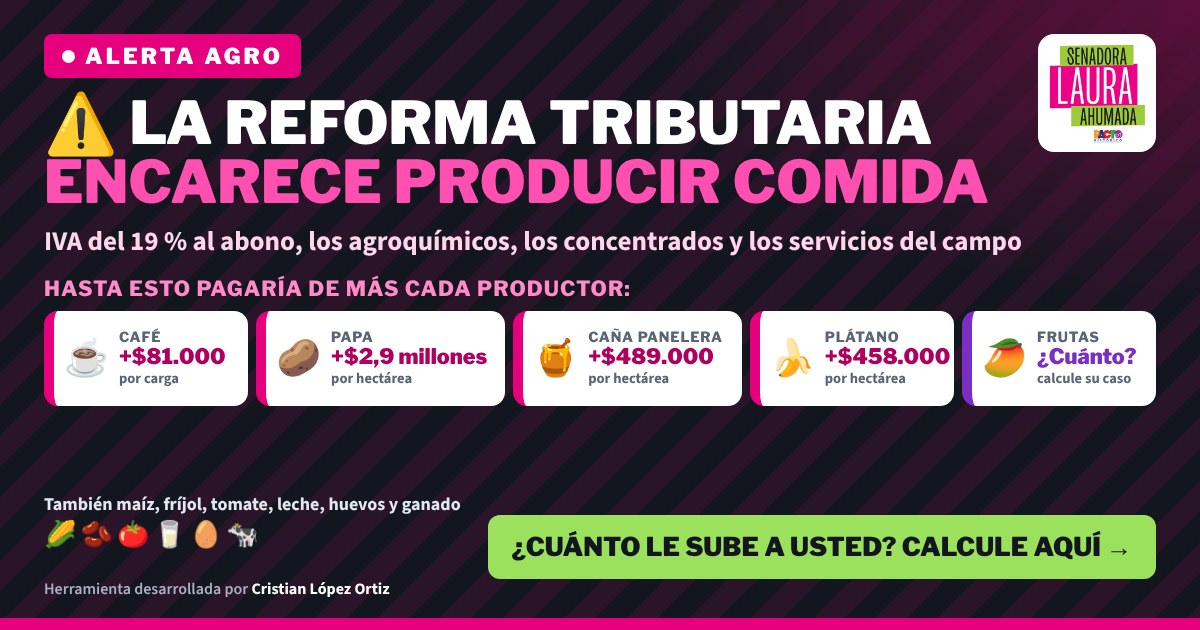
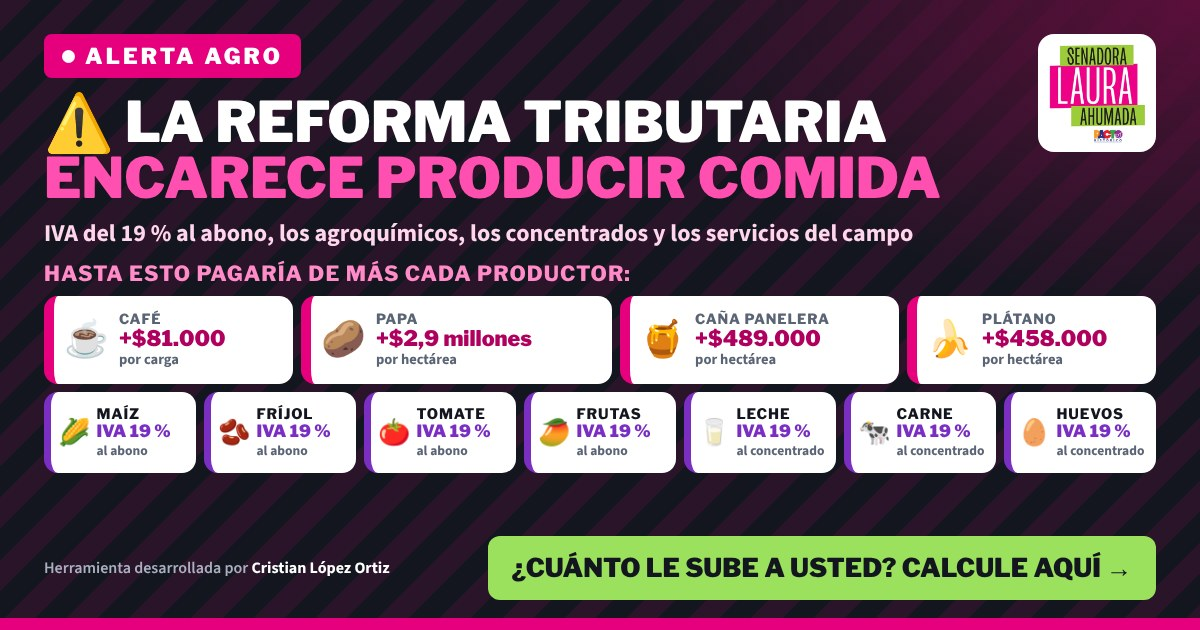
Add files via upload

diff --git a/index.html b/index.html
@@ -67,7 +67,7 @@ tr.tot td{background:#fdf0f7;font-weight:800;border-top:2px solid var(--f)}
 #pop .lead{font-size:16.5px;margin:0 0 10px}
 .pg{display:grid;grid-template-columns:repeat(auto-fill,minmax(205px,1fr));gap:8px}
 .pc{display:flex;gap:10px;align-items:center;text-align:left;border:1px solid var(--line);border-left:6px solid var(--f);border-radius:12px;padding:9px 10px;background:#fff;cursor:pointer;font-family:var(--body);color:var(--ink)}
-.pc:hover{background:#fdf0f7}.pc .ic{font-size:30px;line-height:1;width:46px;height:46px;border-radius:50%;background:#fdf0f7;display:grid;place-items:center;flex:0 0 auto}
+.pc:hover{background:#fdf0f7}.pc.q{border-left-color:#7a2fc2;padding:7px 9px}.pc.q .ic{font-size:24px;width:38px;height:38px;background:#f4ecfc}.pc.q strong{font-size:16.5px;color:#5b1fa0}.pc{min-width:0}.pc>span:last-child{min-width:0}.pg{grid-template-columns:repeat(4,1fr)}.pg .pc{padding:9px 8px;gap:8px}.pg .pc .ic{width:38px;height:38px;font-size:24px}.pg .pc strong{font-size:16.5px}.pg .pc.q strong{font-size:16px}@media(max-width:700px){.pg{grid-template-columns:1fr 1fr}.pc{padding:7px 7px;gap:6px}.pc .ic,.pc.q .ic{width:30px;height:30px;font-size:20px}.pg .pc strong{font-size:15px}.pg .pc.q strong{font-size:14.5px}.pc b{font-size:12px}.pc small{font-size:12px}}.pc .ic{font-size:30px;line-height:1;width:46px;height:46px;border-radius:50%;background:#fdf0f7;display:grid;place-items:center;flex:0 0 auto}
 .pc b{display:block;font:800 13px var(--display);text-transform:uppercase;letter-spacing:.04em;color:var(--muted)}.pc strong{display:block;font:900 20px/1.1 var(--display);color:var(--fd)}.pc small{font-size:12.5px;color:var(--muted)}
 .pm{display:flex;flex-wrap:wrap;gap:6px;margin-top:10px}.pm a{border:1px dashed #d9c6f0;background:#fff;color:#5b1fa0;border-radius:999px;padding:5px 11px;font:700 13.5px var(--body);text-decoration:none}
 .pm button{border:1px solid #d9c6f0;background:#f5effc;color:#5b1fa0;border-radius:999px;padding:5px 11px;font:700 13.5px var(--body);cursor:pointer}
@@ -86,9 +86,9 @@ footer{font-size:13px;color:var(--muted);padding:6px 0 30px}footer a{color:var(-
 </style></head><body>
 <div id="pop" role="dialog" aria-modal="true" aria-labelledby="pop-t"><div class="box">
[1 lines of base64/hex data omitted]
-<div class="pb"><p class="lead">La Reforma Tributaria le pone <b>IVA del 19 %</b> al abono, los agroquímicos, los concentrados y los servicios del campo. <b>Golpea los costos de campesinos y agricultores de todo el país.</b> Esto pagaría de más:</p>
+<div class="pb"><p class="lead">La Reforma Tributaria le pone <b>IVA del 19 %</b> al abono, los agroquímicos, los concentrados y los servicios del campo. <b>Golpea el bolsillo de todos los agricultores y campesinos del país: producir le saldrá más caro.</b> Esto pagaría usted de más:</p>
 <div class="pg" id="pg"></div>
-<div class="pm" id="pm"></div>
+<p class="note" style="margin:10px 0 6px"><b>Y a las demás cadenas también les llega el IVA del 19 %:</b></p><div class="pg" id="pg2"></div><div class="pm" id="pm"></div>
 <p class="note" style="margin-top:8px">Cifras máximas con costos de referencia de la UPRA y la Federación de Cafeteros, si el IVA se traslada completo y no se puede descontar. Su caso puede ser distinto: calcúlelo.</p>
 <div class="mv">📣 <b>19 de noviembre: Gran Movilización Nacional</b> contra el IVA a la producción agropecuaria y a la comida.</div></div>
 <div class="pf"><button class="btn go" id="pop-go">Calcular con mis costos reales</button><p>Al entrar, usted acepta que los datos de costos que escriba se guarden sin datos personales (no se piden nombre, cédula ni teléfono), para el análisis del equipo legislativo de la Senadora Laura Ahumada.</p></div>
@@ -200,7 +200,9 @@ $('unit').addEventListener('change',()=>{unit=$('unit').value;const s=S[cur];$('
  const per=k=>{const s=S[k];return s.u==='carga'?'por carga':s.cic?'por hectárea, en cada cosecha':'por hectárea al año'};
  const amt=k=>{const s=S[k],d=s.cost*Object.values(s.sh).reduce((a,b)=>a+b,0)/100*.19;const m=Math.round(d/1e5)/10;return d>=1e6?'$'+m.toLocaleString('es-CO')+(m===1?' millón':' millones'):fmt(Math.round(d/1000)*1000)};
  $('pg').innerHTML=refs.map(k=>`<button class="pc" data-k="${k}"><span class="ic" aria-hidden="true">${S[k].e}</span><span><b>${S[k].n}</b><strong>hasta +${amt(k)}</strong><small>${per(k)}</small></span></button>`).join('');
- $('pm').innerHTML='<span class="note" style="align-self:center;margin:0">También:</span>'+Object.keys(S).filter(k=>!S[k].cost).map(k=>`<button data-k="${k}">${S[k].e} ${S[k].n}</button>`).join('')+`<a href="https://clo-hub.github.io/Alerta-Arrocera---Reforma-Tributaria/" target="_blank" rel="noopener">🌾 Arroz: calculadora propia ↗</a>`;
+ const HIT={maiz:'al abono y la semilla',leche:'al concentrado',carne:'al concentrado y los insumos',frijol:'al abono y los agroquímicos',frijols:'al abono y los agroquímicos',tomate:'al abono y los agroquímicos',frutas:'al abono y los agroquímicos',huevos:'al concentrado'};
+ $('pg2').innerHTML=Object.keys(HIT).filter(k=>S[k]).map(k=>`<button class="pc q" data-k="${k}"><span class="ic" aria-hidden="true">${S[k].e}</span><span><b>${S[k].n}</b><strong>IVA 19 %</strong><small>${HIT[k]}</small></span></button>`).join('');
+ $('pm').innerHTML=Object.keys(S).filter(k=>!S[k].cost&&!HIT[k]).map(k=>`<button data-k="${k}">${S[k].e} ${S[k].n}</button>`).join('')+`<a href="https://clo-hub.github.io/Alerta-Arrocera---Reforma-Tributaria/" target="_blank" rel="noopener">🌾 Arroz: calculadora propia ↗</a>`;
  const close=k=>{$('pop').hidden=true;if(k&&S[k]){cur=k;load()}};
  $('pop').querySelectorAll('[data-k]').forEach(b=>b.onclick=()=>close(b.dataset.k));
  $('pop-go').onclick=()=>close(); $('pop').addEventListener('click',e=>{if(e.target.id==='pop')close()});
